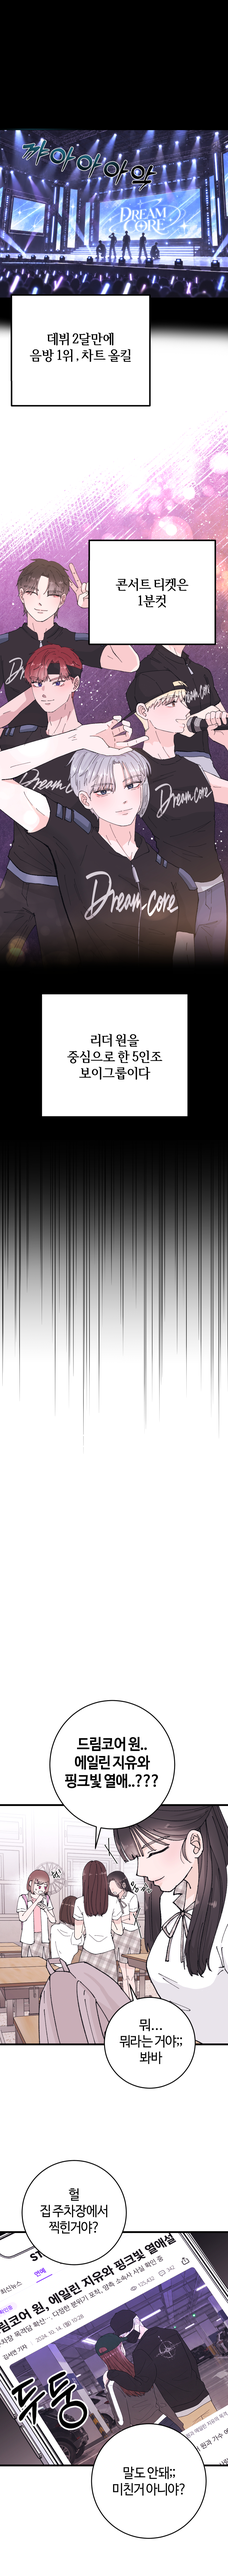
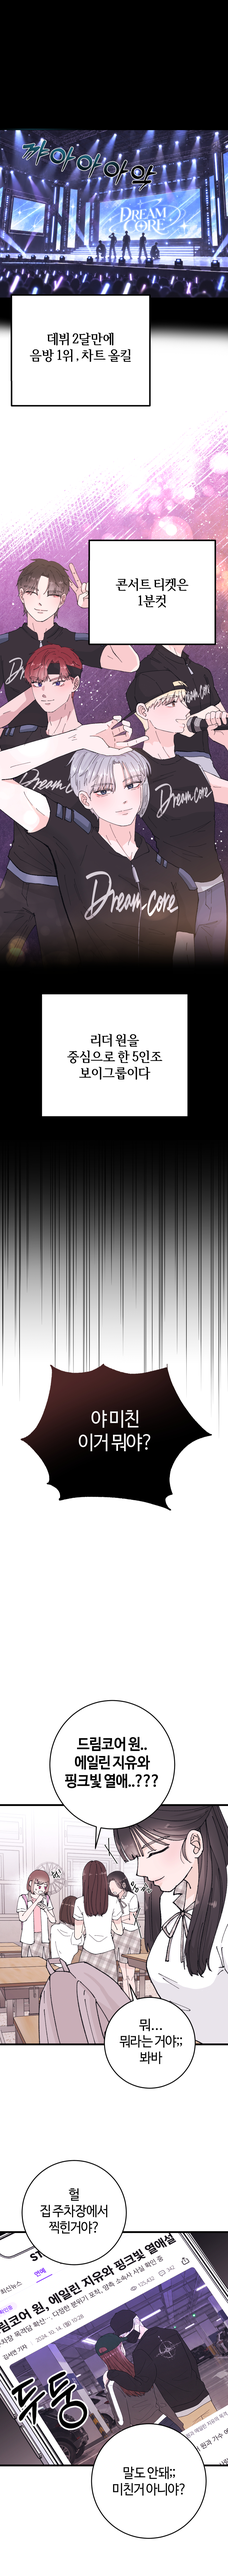
1화 수정본 반영 (3, 5, 6, 7, 9번 컷)

Changed region(s): [[0.1217, 0.53, 0.8826, 0.5924]]

diff --git a/viewer.html b/viewer.html
@@ -49,7 +49,7 @@
     // 회차를 추가하려면 assets/ep3 폴더에 001.jpg, 002.jpg … 를 넣고 아래에 3: 컷수 를 추가하세요.
     var EPISODES = { 1: 15, 2: 11 };
     // 그림을 수정해서 다시 넣었을 때 숫자를 올리면 예전 그림이 캐시에서 남지 않습니다.
-    var VERSION = 3;
+    var VERSION = 4;
     // 회차별 네이버웹툰 주소 (별점은 네이버에서 남깁니다)
     var NAVER = {
       1: 'https://comic.naver.com/challenge/detail?titleId=856602&no=1',
